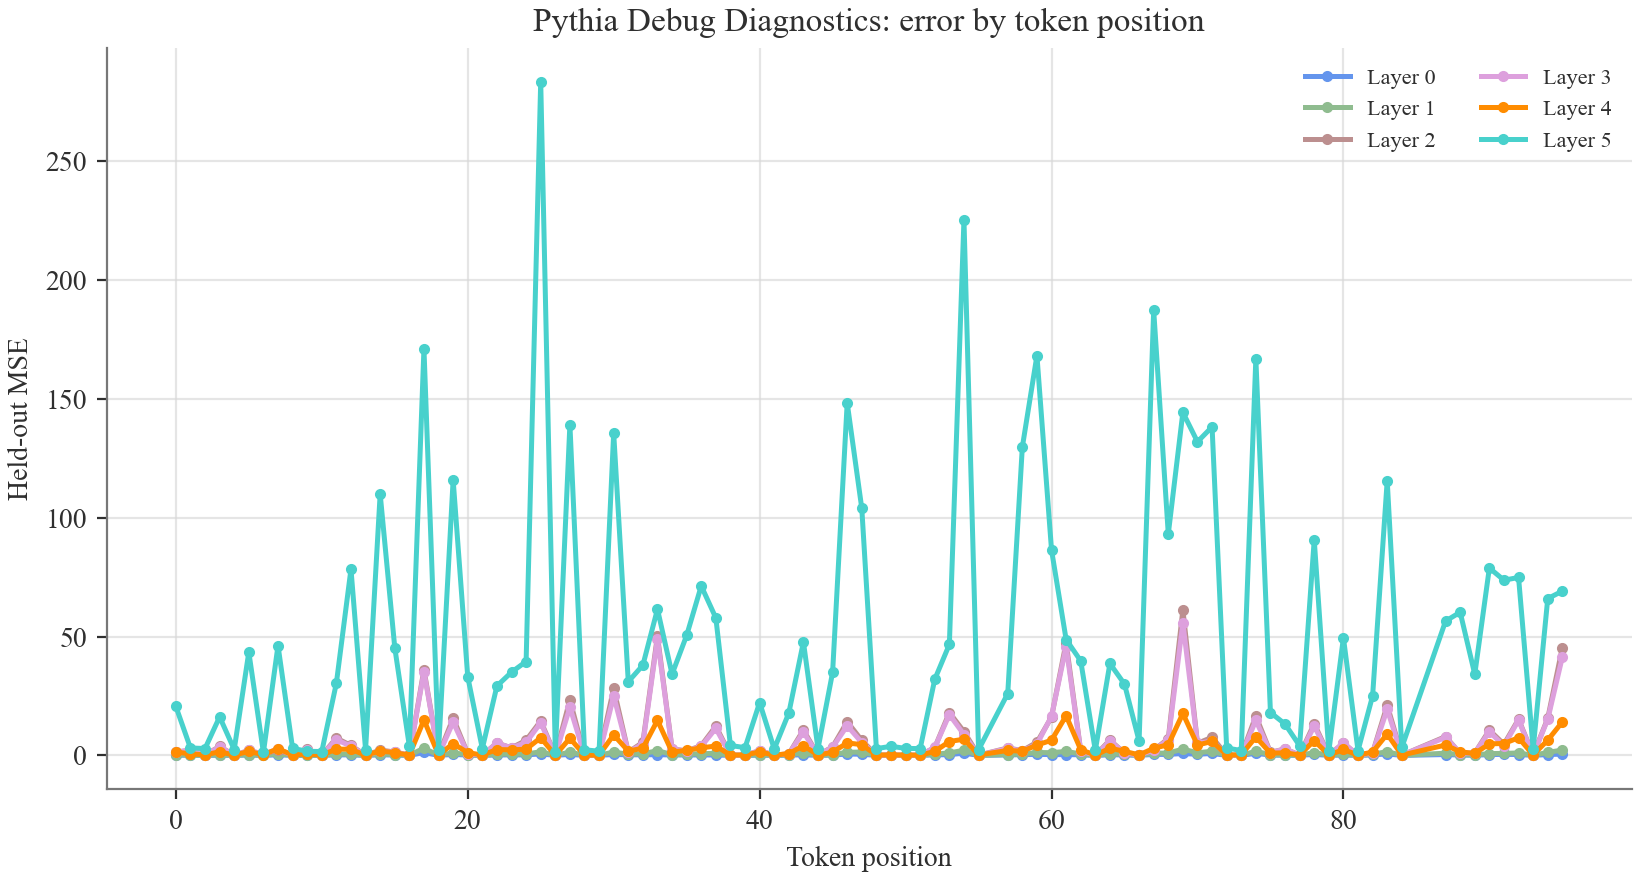
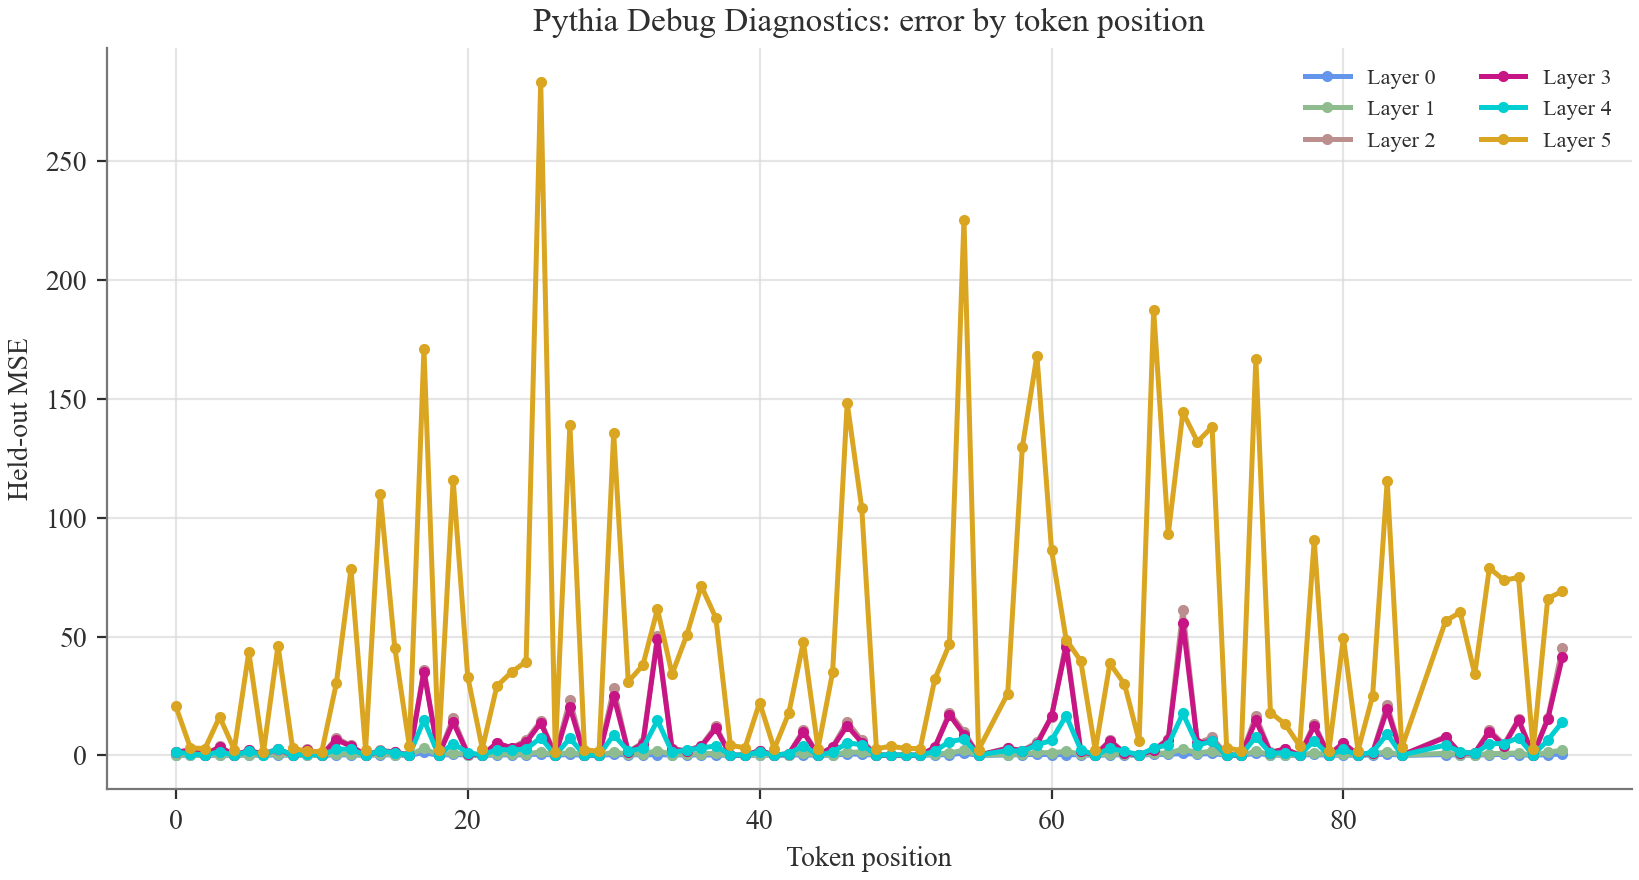
changed some plot stuff

Changed region(s): [[0.0933, 0.092, 0.9646, 0.8898], [0.9024, 0.0614, 0.9335, 0.1227], [0.9024, 0.1534, 0.9335, 0.1841]]

diff --git a/src/token_vs_context_llms/plotting.py b/src/token_vs_context_llms/plotting.py
@@ -22,9 +22,9 @@ LAYER_PALETTE = (
     "cornflowerblue",
     "darkseagreen",
     "rosybrown",
-    "plum",
-    "darkorange",
-    "mediumturquoise",
+    "mediumvioletred",
+    "darkturquoise",
+    "goldenrod",
 )
 
 